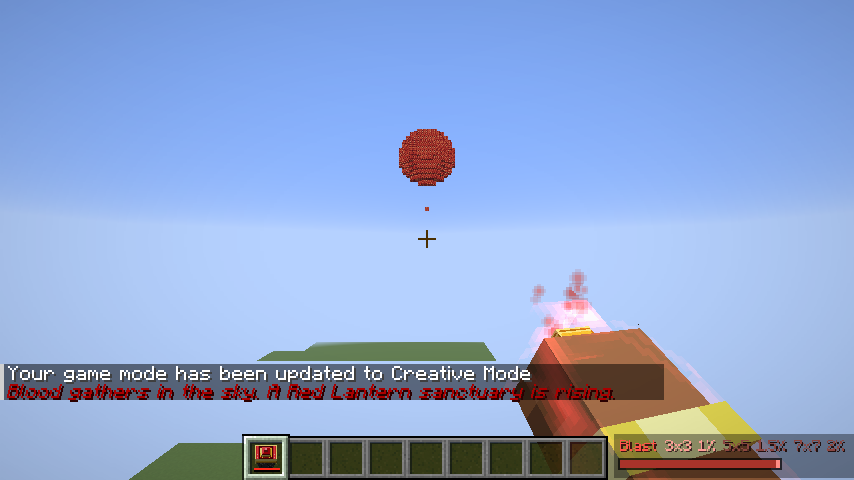
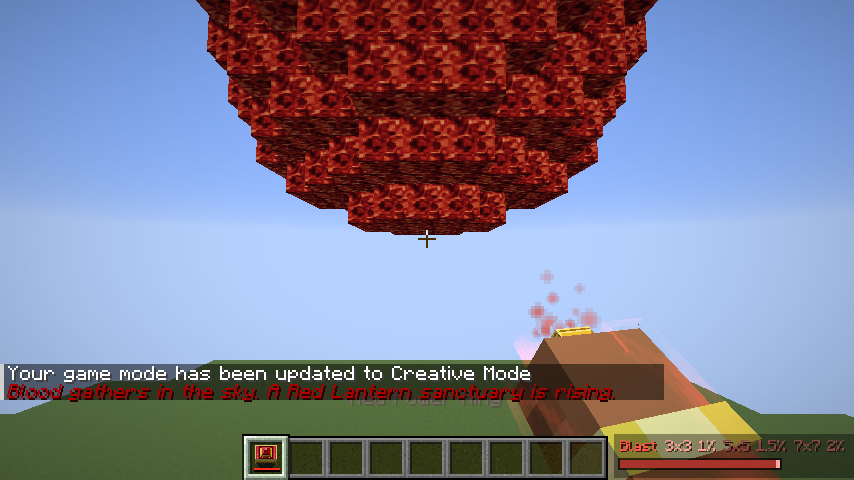
Red sanctuary: blood orb forms from the ring, then drops onto the crown (#193)
J: the ball should form from the ring, in the air, out of lava, and drop once the ring's
animation ends. It now swells in front of and above the player who let the Deluge go, shedding
blood, then falls across onto the spire's crown and the build starts.

Claude-Session: https://claude.ai/code/session_01MnfvUtwBdofXwYLcg96qEB

diff --git a/src/main/java/com/sparky/lanternring/corps/RedSanctuary.java b/src/main/java/com/sparky/lanternring/corps/RedSanctuary.java
@@ -36,6 +36,7 @@ import net.minecraft.server.level.ServerPlayer;
 import net.minecraft.sounds.SoundEvents;
 import net.minecraft.sounds.SoundSource;
 import net.minecraft.util.Brightness;
+import net.minecraft.util.Mth;
 import net.minecraft.util.RandomSource;
 import net.minecraft.util.datafix.DataFixTypes;
 import net.minecraft.world.entity.Display;
@@ -308,7 +309,9 @@ public final class RedSanctuary {
 		final List<Display.BlockDisplay> orb = new ArrayList<>();
 		final List<int[]> orbOffsets = new ArrayList<>();
 		int orbRadius = -1;
-		double orbY;
+		/** The orb's centre. It forms out of the ring, in the air in front of whoever let the Deluge go. */
+		double orbX, orbY, orbZ;
+		Vec3 orbFrom;
 		long started, nextLayer;
 		boolean resumed;
 
@@ -320,6 +323,11 @@ public final class RedSanctuary {
 			for (BlockPos p : plan.keySet()) byY.computeIfAbsent(p.getY(), y -> new ArrayList<>()).add(p);
 			byY.keySet().stream().sorted(java.util.Comparator.reverseOrder()).forEach(y -> layers.add(byY.get(y)));
 			this.started = level.getGameTime();
+			BlockPos c = site.anchor.above(CROWN);
+			this.orbX = c.getX() + 0.5;
+			this.orbY = c.getY() + ORB + ORB_HEIGHT;
+			this.orbZ = c.getZ() + 0.5;
+			this.orbFrom = new Vec3(orbX, orbY, orbZ);
 		}
 
 		BlockPos crown() {
@@ -392,7 +400,13 @@ public final class RedSanctuary {
 		data.sites.add(site);
 		data.setDirty();
 		Work w = new Work(level, site);
-		w.orbY = w.crown().getY() + ORB + ORB_HEIGHT;
+		// The orb forms out of the ring: in the air ahead of the player, high enough to be seen whole.
+		Vec3 look = player.getLookAngle().multiply(1, 0, 1);
+		look = look.lengthSqr() < 1e-4 ? new Vec3(0, 0, 1) : look.normalize();
+		w.orbFrom = player.getEyePosition().add(look.scale(ORB + 4)).add(0, ORB, 0);
+		w.orbX = w.orbFrom.x;
+		w.orbY = w.orbFrom.y;
+		w.orbZ = w.orbFrom.z;
 		WORK.add(w);
 		level.playSound(null, w.crown(), SoundEvents.WARDEN_HEARTBEAT, SoundSource.HOSTILE, 4f, 0.6f);
 		level.playSound(null, w.crown(), SoundEvents.BUBBLE_COLUMN_UPWARDS_AMBIENT, SoundSource.PLAYERS, 3f, 0.6f);
@@ -487,13 +501,20 @@ public final class RedSanctuary {
 		switch (site.stage) {
 			case ORB -> {
 				long t = now - w.started;
-				double top = w.crown().getY() + ORB + ORB_HEIGHT, land = w.crown().getY() + ORB;
+				Vec3 land = Vec3.atBottomCenterOf(w.crown()).add(0, ORB, 0);
 				int r = (int) Math.max(1, Math.min(ORB, Math.round(ORB * Math.min(1.0, t / (orbTicks * 0.6)))));
 				if (t < orbTicks * 0.6) {
-					w.orbY = top;
+					// Swelling out of the ring.
+					w.orbX = w.orbFrom.x;
+					w.orbY = w.orbFrom.y;
+					w.orbZ = w.orbFrom.z;
+					if (t % 3 == 0) level.sendParticles(BLOOD, w.orbX, w.orbY, w.orbZ, 12, r * 0.6, r * 0.6, r * 0.6, 0.1);
 				} else {
+					// Then it drops onto the crown: across in a straight line, down faster and faster.
 					double k = Math.min(1.0, (t - orbTicks * 0.6) / (orbTicks * 0.4));
-					w.orbY = top - (top - land) * k * k;
+					w.orbX = Mth.lerp(k, w.orbFrom.x, land.x);
+					w.orbZ = Mth.lerp(k, w.orbFrom.z, land.z);
+					w.orbY = Mth.lerp(k * k, w.orbFrom.y, land.y);
 				}
 				// The first block forms just before the orb lands on it.
 				if (t == (long) (orbTicks * 0.6)) place(w, w.crown(), false, now);
@@ -629,14 +650,13 @@ public final class RedSanctuary {
 
 	// ---- the orb ----------------------------------------------------------------------------------
 
-	/** Shows the orb at radius {@code r} (0 removes it), centred over the crown at {@code w.orbY}. */
+	/** Shows the orb at radius {@code r} (0 removes it), centred at {@code w.orbX, orbY, orbZ}. */
 	private static void showOrb(Work w, int r) {
 		if (r <= 0) {
 			clearOrb(w);
 			return;
 		}
-		BlockPos c = w.crown();
-		double cy = w.orbY;
+		double cx = w.orbX - 0.5, cy = w.orbY, cz = w.orbZ - 0.5;
 		if (r != w.orbRadius) {
 			clearOrb(w);
 			w.orbRadius = r;
@@ -651,7 +671,7 @@ public final class RedSanctuary {
 						body.setBlockState(blood);
 						body.setBrightnessOverride(new Brightness(12, 15));
 						body.setPosRotInterpolationDuration(2);
-						body.setPos(c.getX() + dx, cy + dy, c.getZ() + dz);
+						body.setPos(cx + dx, cy + dy, cz + dz);
 						body.addTag(TAG);
 						w.level.addFreshEntity(body);
 						w.orb.add(body);
@@ -663,7 +683,7 @@ public final class RedSanctuary {
 		for (int i = 0; i < w.orb.size(); i++) {
 			Display.BlockDisplay body = w.orb.get(i);
 			int[] o = w.orbOffsets.get(i);
-			if (Math.abs(body.getY() - (cy + o[1])) > 0.01) body.setPos(c.getX() + o[0], cy + o[1], c.getZ() + o[2]);
+			if (body.position().distanceToSqr(cx + o[0], cy + o[1], cz + o[2]) > 1e-4) body.setPos(cx + o[0], cy + o[1], cz + o[2]);
 		}
 	}
 
